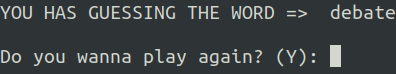
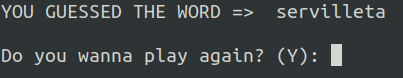
Fixing img

Changed region(s): [[0.0, 0.5405, 0.8788, 0.9189], [0.0, 0.027, 1.0, 0.2703]]

diff --git a/hangman.py b/hangman.py
@@ -42,7 +42,7 @@ class HangmanGame:
         if not result:
             self.resolving = False
             os.system("clear")
-            print('YOU HAS GUESSING THE WORD => ', self.word_to_guess)
+            print('YOU GUESSED THE WORD => ', self.word_to_guess)
             self.play_again()
 
         else:
